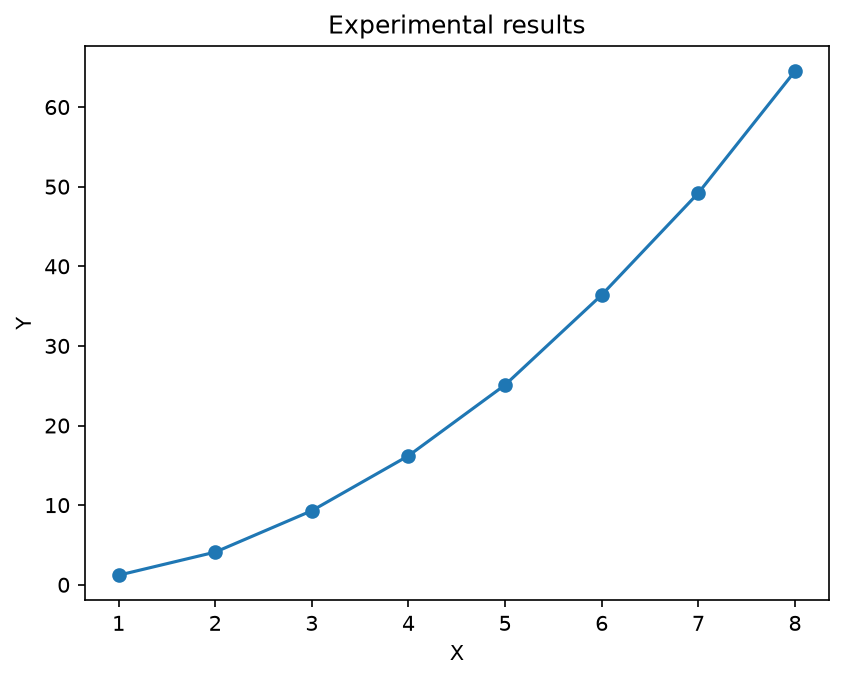
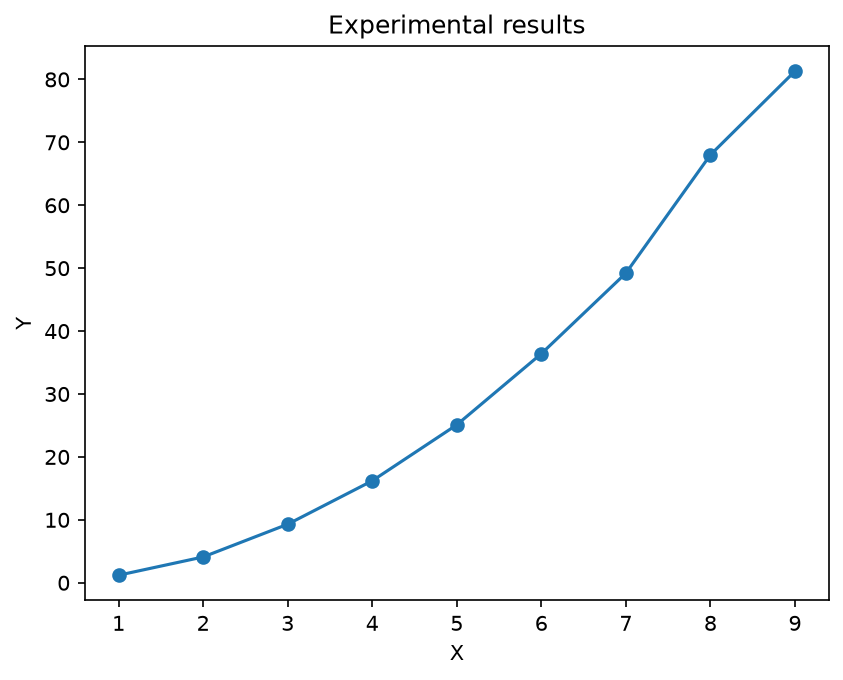
Refactoring

diff --git a/my-project/scripts/stamp_version.py b/my-project/scripts/stamp_version.py
@@ -1,0 +1,59 @@
+"""Проставляет в experiment.md метку версии сборки.
+
+Метка (хеш коммита, дата сборки UTC, md5 набора данных) вписывается
+между маркерами BUILD-INFO-START/END, остальной текст страницы не трогается.
+Запускается в CI перед mkdocs build; локально — через `make build`.
+"""
+import hashlib
+import subprocess
+from datetime import datetime, timezone
+from pathlib import Path
+
+BASE_DIR = Path(__file__).resolve().parent.parent
+DATA_PATH = BASE_DIR / "data" / "experiment.csv"
+PAGE_PATH = BASE_DIR / "docs" / "experiment.md"
+
+START = "<!-- BUILD-INFO-START -->"
+END = "<!-- BUILD-INFO-END -->"
+
+
+def git_hash() -> str:
+    try:
+        return subprocess.check_output(
+            ["git", "rev-parse", "--short", "HEAD"],
+            cwd=BASE_DIR, text=True,
+        ).strip()
+    except Exception:
+        return "unknown"
+
+
+def data_md5() -> str:
+    return hashlib.md5(DATA_PATH.read_bytes()).hexdigest()[:10]
+
+
+def main() -> None:
+    raw = PAGE_PATH.read_bytes()
+    crlf = b"\r\n" in raw
+    text = raw.decode("utf-8")
+    block = (
+        f"{START}\n\n"
+        "## Версия сборки\n\n"
+        f"- Коммит: `{git_hash()}`\n"
+        f"- Дата сборки (UTC): `{datetime.now(timezone.utc):%Y-%m-%dT%H:%M:%SZ}`\n"
+        f"- Данные `experiment.csv` (md5): `{data_md5()}`\n\n"
+        f"{END}\n"
+    )
+    if START in text and END in text:
+        before, _, rest = text.partition(START)
+        _, _, after = rest.partition(END)
+        new_text = before + block + after
+    else:
+        new_text = text.rstrip() + "\n\n" + block
+    if crlf:
+        new_text = new_text.replace("\n", "\r\n")
+    PAGE_PATH.write_bytes(new_text.encode("utf-8"))
+    print("stamped version info into experiment.md")
+
+
+if __name__ == "__main__":
+    main()

diff --git a/my-project/scripts/generate_results.py b/my-project/scripts/generate_results.py
@@ -1,3 +1,4 @@
+import argparse
 from pathlib import Path
 
 import matplotlib
@@ -11,7 +12,19 @@ DATA_PATH = BASE_DIR / "data" / "experiment.csv"
 OUTPUT_PATH = BASE_DIR / "docs" / "assets" / "result.png"
 
 
-def main() -> None:
+def is_up_to_date() -> bool:
+    """True, если график новее данных (пересчёт не нужен)."""
+    return (
+        OUTPUT_PATH.exists()
+        and OUTPUT_PATH.stat().st_mtime >= DATA_PATH.stat().st_mtime
+    )
+
+
+def main(force: bool = False) -> None:
+    if not force and is_up_to_date():
+        print("skip: up to date (result.png новее experiment.csv)")
+        return
+
     data = pd.read_csv(DATA_PATH)
 
     plt.figure()
@@ -24,7 +37,11 @@ def main() -> None:
     OUTPUT_PATH.parent.mkdir(parents=True, exist_ok=True)
     plt.savefig(OUTPUT_PATH, dpi=150, bbox_inches="tight")
     plt.close()
+    print(f"regenerated: {OUTPUT_PATH}")
 
 
 if __name__ == "__main__":
-    main()
+    parser = argparse.ArgumentParser()
+    parser.add_argument("--force", action="store_true", help="пересчитать принудительно")
+    args = parser.parse_args()
+    main(force=args.force)

diff --git a/my-project/docs/report.md b/my-project/docs/report.md
@@ -1,0 +1,107 @@
+# Отчёт по заданию 3
+
+## 1. Ход работы
+
+1. Установлен Python 3.14.4, проверены `pip` и `virtualenv`, создано окружение `.venv/`.
+2. Зависимости зафиксированы в `my-project/requirements.txt` точными версиями; кэш и сборка исключены через `.gitignore` (`venv`, `site/`, `_build/`, `.cache`).
+3. Установлен MkDocs + Material, создан каркас сайта (`my-project/docs/`, `my-project/mkdocs.yml`).
+4. Локальная проверка: `mkdocs serve` для предпросмотра, `mkdocs build --strict` для сборки.
+5. Репозиторий инициализирован и отправлен на GitHub (`NRina4/Python_Project`, ветка `master`).
+6. Настроен GitHub Actions (см. раздел 4), в `Settings → Pages → Source` выбрано `GitHub Actions`.
+7. Использована официальная связка `upload-pages-artifact + deploy-pages` (разница со способом `push в gh-pages` — в разделе 4).
+8. Отечественный хостинг: <!-- TODO: Helios, аккаунт/сервер, URL -->.
+9. `site_url` задан через `!ENV [SITE_URL, ...]` (`my-project/mkdocs.yml:3`), `use_directory_urls: true`; для Helios-подкаталога `SITE_URL` переопределяется в workflow.
+10. Проверка деплоя: HTTP-код, контрольная строка в HTML, поиск, формулы при недоступном CDN (см. раздел 6).
+11. Лицензии: код — MIT (`LICENSE-CODE-MIT` в корне репозитория), контент — CC BY 4.0 (`LICENSE-CONTENT-CC-BY-4.0` в корне); упоминание на главной странице.
+12. Отладка зафиксирована в разделе 7.
+
+## 2. Теоретическое задание Т1
+
+Выполнен сравнительный анализ четырёх генераторов: MkDocs + Material, Sphinx + MyST-Parser, Pelican, Jupyter Book 2.
+Полный текст: [Анализ генераторов](research.md).
+
+Итоговые взвешенные баллы (шкала 0–5, веса в сумме 100%):
+
+| Генератор | Балл из 100 |
+|---|---:|
+| Sphinx + MyST-Parser | 93,8 |
+| Jupyter Book 2 | 77,4 |
+| MkDocs + Material | 72,0 |
+| Pelican | 54,6 |
+
+Вывод: по совокупности научных критериев оптимален Sphinx + MyST-Parser; для реализации конвейера в данной работе выбран MkDocs + Material (простота, быстрая сборка, русский поиск, работа в подкаталоге). Условия смены вывода — в `research.md`, раздел 9.
+
+## 3. Практическое задание P3
+
+Конвейер «данные → результат → сайт»:
+
+```text
+my-project/data/experiment.csv → scripts/generate_results.py → docs/assets/result.png → mkdocs build → сайт
+```
+
+Результат: [Эксперимент](experiment.md). Исходные данные меняются → `generate_results.py` пересчитывает график → push запускает CI → сайт обновляется.
+
+Кэширование: повторный запуск без изменения `experiment.csv` пропускает пересчёт (`skip: up to date`).
+Замер локально (Windows, Python 3.14.4): полный пересчёт после удаления `result.png` — 1,90 с; повтор с актуальным png — 1,46 с.
+Выигрыш ~0,44 с (~23%); основное время в обоих случаях — старт интерпретатора и импорт matplotlib/pandas, на больших данных выигрыш будет больше.
+
+Метка версии выводится внизу страницы эксперимента (`scripts/stamp_version.py` в CI перед сборкой): коммит, дата сборки UTC, md5 `experiment.csv`.
+
+## 4. Пайплайны
+
+### 4.1. GitHub Pages (использован)
+
+Workflow `.github/workflows/gh-pages.yml` (шаги прокомментированы в файле):
+`checkout → setup-python 3.14 → pip install -r my-project/requirements.txt → generate_results.py → mkdocs build --strict (SITE_URL=https://nrina4.github.io/Python_Project/) → upload-pages-artifact (my-project/site) → deploy-pages`.
+
+### 4.2. Push в `gh-pages` (peaceiris, не использован — для сравнения)
+
+Готовый HTML коммитится ботом в отдельную ветку `gh-pages`, Pages отдаёт её (`Source = Deploy from a branch`). Плюсы: простота на старых репо. Минусы: мусорная ветка сборок, нужны права `contents: write`, конфликты при параллельных пушах. Официальный способ вместо ветки использует артефакт и OIDC (`pages: write, id-token: write`), поэтому выбран он.
+
+### 4.3. Helios (Static HTML)
+
+<!-- TODO: YAML workflow под Helios, SITE_URL подкаталога -->
+
+## 5. Ссылки
+
+- Репозиторий: `https://github.com/NRina4/Python_Project`
+- GitHub Pages: `https://nrina4.github.io/Python_Project/`
+- Отечественный хостинг: <!-- TODO: URL Helios -->
+
+## 6. Измерения (только таблицами)
+
+| Замер | Значение |
+|---|---|
+| Время `mkdocs build --strict` локально (Windows) | 0,62 с |
+| Время `mkdocs build --strict` (лог Actions) | TODO (после финального пуша) |
+| Размер `my-project/site` | 3 255 309 Б (≈ 3,10 MiB) |
+| Размер `docs/assets/result.png` | 30 878 Б (≈ 30,2 KiB) |
+| Размер `docs/assets/actions-success.png` | 185 072 Б (≈ 180,7 KiB) |
+| Размер `docs/assets/pages-site.png` | 202 325 Б (≈ 197,6 KiB) |
+| Длительность jobs build / deploy (Actions) | TODO (после финального пуша) |
+| Время холодной/инкрементальной сборки 4 генераторов | см. `research.md`, раздел 4 |
+| Стоимость Plotly (до/после) | см. `research.md`, раздел 6 |
+
+Скриншоты: зелёный запуск Actions — `assets/actions-success.png` (готов); главная Pages — `assets/pages-site.png` (готов); проваленный запуск — TODO (взять со страницы красного run); Helios и демо P3 — после финального пуша.
+
+![Зелёный запуск Actions](assets/actions-success.png)
+
+![Главная страница на GitHub Pages](assets/pages-site.png)
+
+## 7. Отладка
+
+### Ошибка 1. Deploy 404 — Pages не включён
+- Текст: `Failed to create deployment (status: 404) ... Ensure GitHub Pages has been enabled`.
+- Гипотеза: `deploy-pages` некуда публиковать, `Source` не переключён на Actions.
+- Проверка: открыли `settings/pages`, артефакт в логе при этом найден (`artifact_id ...`).
+- Решение: `Settings → Pages → Source = GitHub Actions`, затем `Re-run failed jobs`. Повторный запуск зелёный.
+
+### Ошибка 2. <!-- TODO -->
+- Текст: TODO. Гипотеза: TODO. Проверка: TODO. Решение: TODO.
+
+### Ошибка 3. <!-- TODO -->
+- Текст: TODO. Гипотеза: TODO. Проверка: TODO. Решение: TODO.
+
+## 8. Вывод
+
+Рекомендуемый стек для публикации результатов в данной предметной области: Sphinx + MyST-Parser для полного научного аппарата; MkDocs + Material — при приоритете простоты и публикации уже посчитанных результатов отдельным pipeline (реализовано здесь); Jupyter Book 2 — при исполняемых ноутбуках в сборке; Pelican — для контентных сайтов без научной типографики. Ограничения, меняющие рекомендацию, — в `research.md`, раздел 9.

diff --git a/my-project/docs/experiment.md b/my-project/docs/experiment.md
@@ -14,3 +14,14 @@
 Ниже представлен график зависимости значения `y` от параметра `x`.
 
 ![Результаты эксперимента](assets/result.png)
+
+<!-- BUILD-INFO-START -->
+
+## Версия сборки
+
+- Коммит: `01cd07f`
+- Дата сборки (UTC): `2026-10-12T20:38:52Z`
+- Данные `experiment.csv` (md5): `34c2edb596`
+
+<!-- BUILD-INFO-END -->
+
